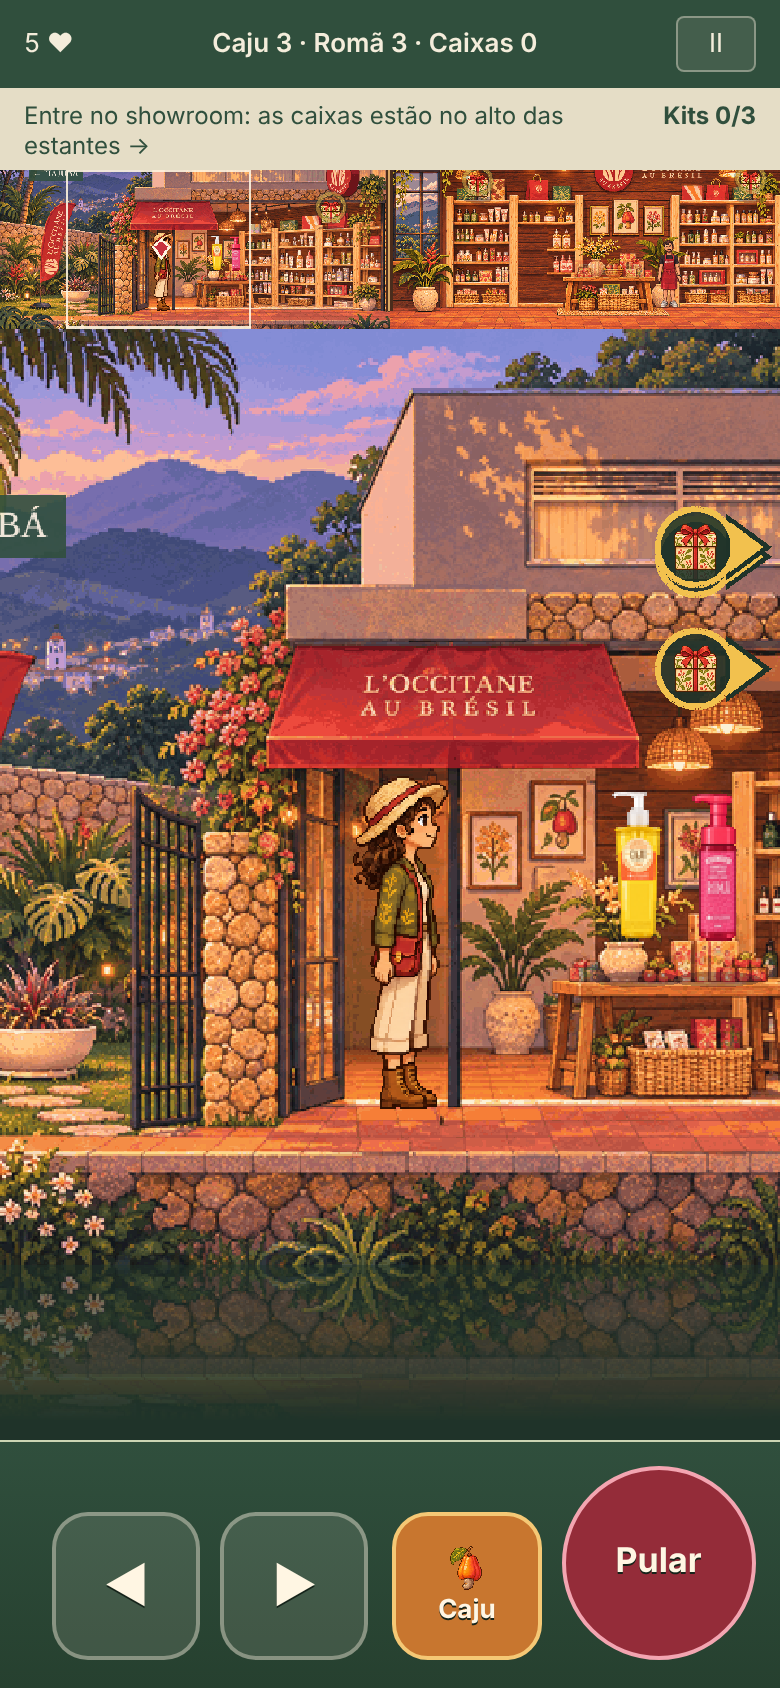
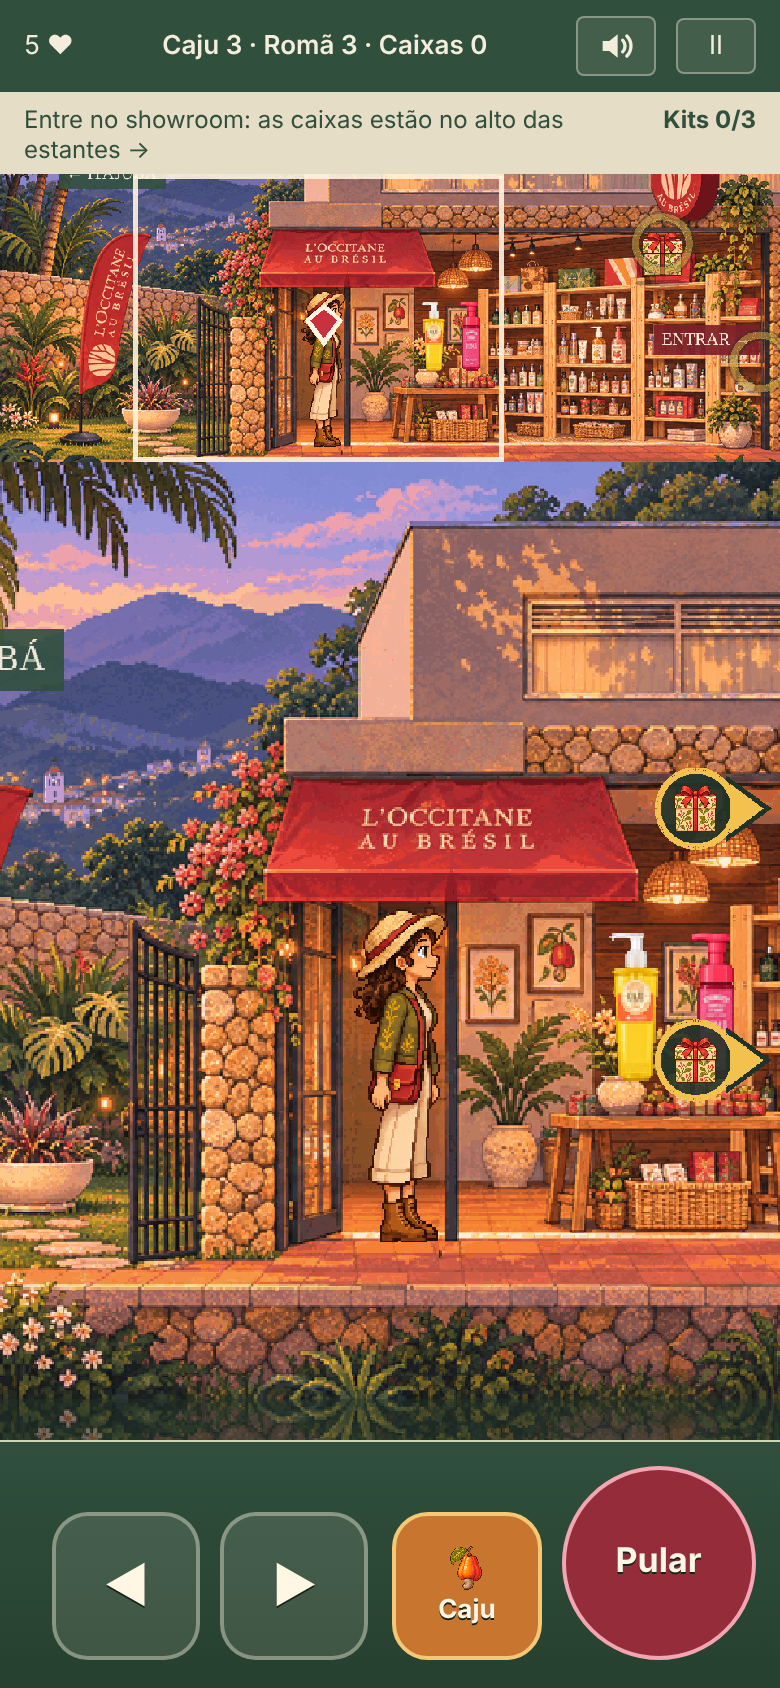
Showroom em duas telas: fachada e interior com transição entre elas
Claude-Session: https://claude.ai/code/session_01PQYRHC3q9ASyZ7S8rRpx5T

diff --git a/src/game/Aventura.js b/src/game/Aventura.js
@@ -27,6 +27,10 @@ const PORTAL = FACHADA - 46; // a bandeira do fim da rua: passou dela, a tela es
 // Volta ao showroom → cidade: andando para a esquerda no começo da fachada. As posições de chegada ficam longe
 // dos dois gatilhos (PORTAL + 8 na rua, VOLTA na fachada) para a passagem nunca disparar em seguida, em loop.
 const VOLTA = FACHADA + 12, CHEGADA_SHOWROOM = FACHADA + 34, CHEGADA_CIDADE = PORTAL - 40;
+// Fachada (jardim, porta e Pedro) e interior são duas telas separadas, com transição entre elas: andando para a
+// direita no fim da fachada entra no showroom; para a esquerda no começo do interior volta ao jardim.
+const PASSAGEM = 14, CHEGADA_INTERIOR = INTERIOR + 34, CHEGADA_JARDIM = INTERIOR - 34;
+const TRECHO = { fachada: FACHADA, interior: INTERIOR };
 const ESCALA = SHOWROOM.largura / 1672; // as artes do showroom foram desenhadas em 1672 px de largura
 const px = (base, x) => base + x * ESCALA, py = y => SHOWROOM.topo + y * ESCALA;
 const $ = id => document.getElementById(id);
@@ -104,7 +108,7 @@ export class Aventura extends Phaser.Scene {
     this.physics.world.setBounds(0, 0, FACHADA, ALTURA);
     const cam = this.cameras.main;
     cam.setZoom(this.scale.height / ALTURA_CIDADE); cam.setBounds(0, 0, FACHADA, ALTURA); cam.startFollow(this.jogador, true, .15, .15); cam.setDeadzone(64, 56);
-    this.sala = 'cidade';
+    this.sala = 'cidade'; this.trecho = 'fachada';
     this.guia = new GuiaShowroom(this); // mapa da loja e setas (celular em pé)
     this.entrada = new Entrada(this);
     this.events.once('shutdown', () => {
@@ -183,8 +187,6 @@ export class Aventura extends Phaser.Scene {
     const { topo } = SHOWROOM;
     this.add.image(FACHADA, topo, 'fachada').setOrigin(0).setScale(1 / 3);
     this.add.image(INTERIOR, topo, 'interior').setOrigin(0).setScale(1 / 3);
-    const g = this.add.graphics();
-    g.fillStyle(0x4a2c1c).fillRect(INTERIOR - 3, topo, 6, 150); g.fillStyle(0xd9a765).fillRect(INTERIOR - 2, topo, 2, 150);
     const piso = this.add.zone(FACHADA + SHOWROOM.largura, 255, SHOWROOM.largura * 2, 30);
     this.physics.add.existing(piso, true);
     this.pisoShowroom = piso;
@@ -216,6 +218,10 @@ export class Aventura extends Phaser.Scene {
     }
     this.placaCidade = this.add.text(FACHADA + 46, 128, '← ITAJUBÁ', { fontFamily: 'Georgia, serif', fontSize: '7px', color: '#fff4df', backgroundColor: '#304f3d', padding: { x: 3, y: 2 }, resolution: 4 })
       .setOrigin(.5).setDepth(6).setAlpha(.9); // no alto: não cobre a exploradora na chegada e aparece no celular em pé
+    // placas das passagens entre o jardim e o interior
+    const placa = { fontFamily: 'Georgia, serif', fontSize: '7px', color: '#fff4df', backgroundColor: '#7d2029', padding: { x: 3, y: 2 }, resolution: 4 };
+    this.add.text(INTERIOR - 30, 196, 'ENTRAR →', placa).setOrigin(.5).setDepth(6).setAlpha(.92);
+    this.add.text(INTERIOR + 28, 128, '← JARDIM', { ...placa, backgroundColor: '#304f3d' }).setOrigin(.5).setDepth(6).setAlpha(.9);
     this.saida = this.add.text(MUNDO - 22, 186, 'SAÍDA →', { fontFamily: 'Georgia, serif', fontSize: '9px', color: '#fff4df', backgroundColor: '#7d2029', padding: { x: 3, y: 2 }, resolution: 4 })
       .setOrigin(.5).setDepth(6).setAlpha(0);
   }
@@ -346,24 +352,34 @@ export class Aventura extends Phaser.Scene {
   // ---------- Passagem entre a rua e o showroom (nos dois sentidos) ----------
   // A tela escurece, troca a "sala" (limites de câmera e de física) e reabre. Missão, itens já pegos e capivaras
   // alimentadas ficam como estão: só a exploradora muda de lugar.
+  // Destinos: 'cidade', 'showroom' (chega à fachada vindo da rua), 'interior' e 'jardim' (as duas telas do showroom).
   trocarSala(destino) {
     this.estado = 'transicao';
     this.jogador.body.setVelocity(0, 0); this.physics.world.pause(); this.entrada.limpar(); this.tutorial?.esconder(); this.guia.esconder();
-    const showroom = destino === 'showroom';
-    $('transicao-titulo').textContent = showroom ? 'Showroom' : 'De volta a';
-    $('transicao-nome').textContent = showroom ? 'L’Occitane au Brésil' : 'Itajubá';
-    $('transicao-sub').textContent = showroom ? 'Itajubá' : 'Passeie à vontade';
+    const textos = {
+      showroom: ['Showroom', 'L’Occitane au Brésil', 'Itajubá'],
+      cidade: ['De volta a', 'Itajubá', 'Passeie à vontade'],
+      interior: ['Entrando no', 'Showroom', 'Os presentes estão lá dentro'],
+      jardim: ['De volta ao', 'Jardim', 'A rua de Itajubá fica à esquerda'],
+    }[destino];
+    $('transicao-titulo').textContent = textos[0]; $('transicao-nome').textContent = textos[1]; $('transicao-sub').textContent = textos[2];
     $('transicao').hidden = false; tocar('transicao');
-    const cam = this.cameras.main;
-    cam.fadeOut(380, 30, 16, 22);
+    const cam = this.cameras.main, dentroDaLoja = destino === 'interior' || destino === 'jardim';
+    cam.fadeOut(dentroDaLoja ? 300 : 380, 30, 16, 22);
     cam.once('camerafadeoutcomplete', () => {
-      this.sala = destino;
-      if (showroom) {
+      this.sala = destino === 'cidade' ? 'cidade' : 'showroom';
+      if (this.sala === 'showroom') {
         if (this.missao.fase === 'cidade') { this.missao.fase = 'fachada'; registrar('chegada_showroom'); }
-        this.physics.world.setBounds(FACHADA, 0, MUNDO - FACHADA, ALTURA);
         if (!this.solidos.contains(this.pisoShowroom)) this.solidos.add(this.pisoShowroom);
-        this.jogador.body.reset(CHEGADA_SHOWROOM, CHAO); this.jogador.olhandoDireita = true; this.checkpoint = CHEGADA_SHOWROOM;
-        this.enquadrar(); cam.centerOn(CHEGADA_SHOWROOM + 40, 180);
+        const [trecho, chegada, direita] = { showroom: ['fachada', CHEGADA_SHOWROOM, true], interior: ['interior', CHEGADA_INTERIOR, true], jardim: ['fachada', CHEGADA_JARDIM, false] }[destino];
+        this.trecho = trecho;
+        if (trecho === 'interior') {
+          if (!this.pedroConversou) this.pedroEntra();
+          if (this.missao.fase !== 'showroom') { this.missao.fase = 'showroom'; this.time.delayedCall(900, () => this.aviso('Caixas no alto das estantes!')); }
+        }
+        this.physics.world.setBounds(TRECHO[trecho], 0, SHOWROOM.largura, ALTURA);
+        this.jogador.body.reset(chegada, CHAO); this.jogador.olhandoDireita = direita; this.checkpoint = chegada;
+        this.enquadrar(); cam.centerOn(chegada + (direita ? 40 : -40), 180);
       } else {
         this.physics.world.setBounds(0, 0, FACHADA, ALTURA);
         this.jogador.body.reset(CHEGADA_CIDADE, CHAO); this.jogador.olhandoDireita = false; this.checkpoint = CHEGADA_CIDADE;
@@ -371,13 +387,15 @@ export class Aventura extends Phaser.Scene {
         cam.centerOn(CHEGADA_CIDADE - 40, ALTURA / 2);
       }
       this.ultimoHUD = ''; this.atualizarHUD();
-      this.time.delayedCall(650, () => {
+      this.time.delayedCall(dentroDaLoja ? 450 : 650, () => {
         $('transicao').hidden = true; cam.fadeIn(420, 30, 16, 22);
         this.physics.world.resume(); this.estado = 'jogo'; this.entrada.ignorarAteSoltar();
       });
     });
   }
   entrarNoShowroom() { this.trocarSala('showroom'); }
+  entrarNoInterior() { this.trocarSala('interior'); }
+  voltarAoJardim() { this.trocarSala('jardim'); }
   voltarParaCidade() { this.trocarSala('cidade'); }
 
   // ---------- Conversa com Pedro ----------
@@ -492,9 +510,10 @@ export class Aventura extends Phaser.Scene {
   // mostrar ao menos 150 unidades de largura (antes ~110); o que sobra embaixo é um reflexo do piso.
   enquadrar() {
     const cam = this.cameras.main, showroom = this.sala === 'showroom';
-    const zoom = showroom ? this.guia.layout(true) : (this.guia.layout(false), this.scale.height / ALTURA_CIDADE);
+    const x0 = TRECHO[this.trecho] ?? FACHADA;
+    const zoom = showroom ? this.guia.layout(true, x0) : (this.guia.layout(false), this.scale.height / ALTURA_CIDADE);
     if (Math.abs(cam.zoom - zoom) > .001) cam.setZoom(zoom);
-    const limites = showroom ? [FACHADA, SHOWROOM.topo, MUNDO - FACHADA, Math.max(SHOWROOM.altura, cam.height / zoom)] : [0, 0, FACHADA, ALTURA];
+    const limites = showroom ? [x0, SHOWROOM.topo, SHOWROOM.largura, Math.max(SHOWROOM.altura, cam.height / zoom)] : [0, 0, FACHADA, ALTURA];
     const b = cam.getBounds();
     if (b.x !== limites[0] || Math.abs(b.height - limites[3]) > .01 || b.width !== limites[2]) cam.setBounds(...limites);
     return zoom;
@@ -502,7 +521,7 @@ export class Aventura extends Phaser.Scene {
   // Para onde ir no showroom: Pedro, caixas, produtos de reserva, o próximo lugar livre da bancada e a saída.
   alvosShowroom() {
     if (!this.pedroConversou) return [{ x: this.pedroX, y: py(792) - 58, icone: 'pedro-npc', frame: 'parado-0', escala: .075 }];
-    if (this.missao.kits >= META_KITS) return [{ x: MUNDO - 22, y: 200, icone: 'sacola', escala: .22 }];
+    if (this.missao.kits >= META_KITS) return this.alvosNestaTela([{ x: MUNDO - 22, y: 200, icone: 'sacola', escala: .22 }]);
     const alvos = [];
     const falta = faltaParaKit(this.missao);
     for (const item of this.itens.getChildren()) {
@@ -517,7 +536,14 @@ export class Aventura extends Phaser.Scene {
       // faltam frutas e não há reserva no showroom: o caminho é a cidade
       if (!alvos.some(a => a.icone === 'caju' || a.icone === 'roma')) alvos.push({ x: FACHADA + 46, y: 128, icone: falta.includes('caju') ? 'caju' : 'roma', escala: .26 });
     }
-    return alvos;
+    return this.alvosNestaTela(alvos);
+  }
+  // O que fica na outra tela do showroom vira um alvo na passagem (uma seta só, com o ícone do primeiro).
+  alvosNestaTela(alvos) {
+    const interior = this.trecho === 'interior', nesta = [], passagem = [];
+    for (const a of alvos) (a.x >= INTERIOR) === interior ? nesta.push(a) : passagem.push(a);
+    if (passagem.length) nesta.push({ ...passagem[0], x: interior ? INTERIOR + 8 : INTERIOR - 8, y: 205 });
+    return nesta;
   }
   // Zoom pela altura da tela (que muda com o celular) e câmera um pouco à frente de quem anda.
   atualizarCamera() {
@@ -563,13 +589,14 @@ export class Aventura extends Phaser.Scene {
       if (x > this.checkpoint + MODO_FACIL.checkpointDistancia) this.checkpoint = x;
     } else {
       // andando para a esquerda no começo da fachada, volta para a rua
-      if (x < VOLTA && this.entrada.esquerda) { this.voltarParaCidade(); return; }
+      if (this.trecho !== 'interior' && x < VOLTA && this.entrada.esquerda) { this.voltarParaCidade(); return; }
+      if (this.trecho === 'fachada' && x > INTERIOR - PASSAGEM && this.entrada.direita) { this.entrarNoInterior(); return; }
+      if (this.trecho === 'interior' && x < INTERIOR + PASSAGEM && this.entrada.esquerda) { this.voltarAoJardim(); return; }
       const perto = !this.pedroConversou && Math.abs(x - this.pedroX) < 45;
       if (perto !== this.pedroPerto) { this.pedroPerto = perto; this.pedro.play(perto ? 'pedro-aceno' : 'pedro-parado'); }
       // a primeira passagem pela porta abre a conversa sozinha: é ela que explica as caixas de presente
       if (perto && !this.pedroConversou && Math.abs(x - this.pedroX) < 20) { this.abrirDialogo(); return; }
       if (x > this.pedroX + 30 && !this.pedroConversou) this.pedroEntra();
-      if (x > INTERIOR && this.missao.fase !== 'showroom') { this.missao.fase = 'showroom'; this.aviso('Caixas no alto das estantes!'); }
       if (this.missao.fase === 'showroom') this.verificarBancada();
       this.guia.atualizar(this.alvosShowroom(), this.jogador, agora);
     }
@@ -577,7 +604,7 @@ export class Aventura extends Phaser.Scene {
     $('interagir').hidden = !contexto;
     if (contexto && $('interagir').textContent !== contexto.texto) $('interagir').textContent = contexto.texto;
     if (this.entrada.interagirApertou || this.pedidoInteracao) { this.pedidoInteracao = false; this.interagir(contexto); }
-    const local = this.sala === 'cidade' ? 'Pelas ruas de Itajubá' : x > INTERIOR ? 'Showroom · monte a vitrine' : 'Showroom L’Occitane';
+    const local = this.sala === 'cidade' ? 'Pelas ruas de Itajubá' : this.trecho === 'interior' ? 'Showroom · monte a vitrine' : 'Showroom L’Occitane';
     if ($('local').textContent !== local) $('local').textContent = local;
     this.atualizarHUD();
     // A partida só termina saindo à direita com os três kits; não há fim por tempo.

diff --git a/src/game/guiaShowroom.js b/src/game/guiaShowroom.js
@@ -2,10 +2,10 @@ import { SHOWROOM, ALTURA_SHOWROOM } from './config.js';
 
 // Showroom no celular em pé: com o zoom pela altura sobravam ~110 unidades de largura.
 // Aqui ficam o enquadramento do celular em pé, o "mapa da loja" no alto (uma segunda câmera que mostra
-// o showroom inteiro com as próprias artes) e as setas que apontam para o próximo objetivo.
-export const MAPA = { y1: 125, y2: 255 }; // faixa vertical do showroom que aparece no mapa (estantes e chão)
+// a tela atual do showroom, fachada ou interior, com as próprias artes) e as setas que apontam para o próximo objetivo.
+export const MAPA = { y1: 128, y2: 246 }; // faixa vertical do showroom que aparece no mapa (estantes e chão)
 export const LARGURA_MIN_SHOWROOM = 150; // largura mínima visível (unidades) no celular em pé
-const LARGURA_TOTAL = SHOWROOM.largura * 2;
+const LARGURA_TELA = SHOWROOM.largura, LARGURA_TOTAL = SHOWROOM.largura * 2;
 const CORES = { alvo: 0xf2c14e, jogadora: 0xc8323f, moldura: 0xfff4df, escuro: 0x1f3329 };
 
 // Celular em pé: a tela do jogo é bem mais alta que larga.
@@ -14,7 +14,7 @@ export const emPe = (largura, altura) => altura > largura * 1.15;
 // Enquadramento por tamanho de tela, sem Phaser (testável): altura do mapa, zoom e área visível do jogo.
 export function enquadramento(largura, altura) {
   if (!emPe(largura, altura)) return { mapa: 0, zoom: altura / ALTURA_SHOWROOM };
-  const mapa = Math.round(largura * (MAPA.y2 - MAPA.y1) / LARGURA_TOTAL);
+  const mapa = Math.round(largura * (MAPA.y2 - MAPA.y1) / LARGURA_TELA);
   const zoom = Math.min((altura - mapa) / ALTURA_SHOWROOM, largura / LARGURA_MIN_SHOWROOM);
   return { mapa, zoom };
 }
@@ -68,16 +68,16 @@ export class GuiaShowroom {
   }
 
   // Liga o mapa e ajusta a câmera principal ao tamanho da tela; devolve o zoom usado.
-  layout(ativo) {
+  layout(ativo, x0 = SHOWROOM.x) {
     const s = this.scene, cam = s.cameras.main, w = s.scale.width, h = s.scale.height;
     const { mapa, zoom } = ativo ? enquadramento(w, h) : { mapa: 0, zoom: 0 };
     const mostrar = ativo && mapa > 0;
-    if (this.alturaMapa !== (mostrar ? mapa : 0) || cam.height !== h - (mostrar ? mapa : 0) || cam.width !== w) {
-      this.alturaMapa = mostrar ? mapa : 0;
+    if (this.alturaMapa !== (mostrar ? mapa : 0) || cam.height !== h - (mostrar ? mapa : 0) || cam.width !== w || this.x0 !== x0) {
+      this.alturaMapa = mostrar ? mapa : 0; this.x0 = x0;
       cam.setViewport(0, this.alturaMapa, w, h - this.alturaMapa);
       if (mostrar) {
-        this.mapa.setViewport(0, 0, w, mapa).setZoom(w / LARGURA_TOTAL);
-        this.mapa.centerOn(SHOWROOM.x + LARGURA_TOTAL / 2, (MAPA.y1 + MAPA.y2) / 2);
+        this.mapa.setViewport(0, 0, w, mapa).setZoom(w / LARGURA_TELA);
+        this.mapa.centerOn(x0 + LARGURA_TELA / 2, (MAPA.y1 + MAPA.y2) / 2);
       }
     }
     this.mapa.setVisible(mostrar);

diff --git a/tests/exploracao.test.js b/tests/exploracao.test.js
@@ -83,3 +83,25 @@ test('voltar à cidade e retornar ao showroom preserva missão, itens e capivara
   assert.equal(mundo.pausado, mundo.retomado, 'toda transição retoma a física');
   assert.equal(s.fim, false);
 });
+
+test('fachada e interior são duas telas, com transição nos dois sentidos e sem loop', () => {
+  const { s, elements, mundo, cam } = cena();
+  s.aviso = () => {}; s.pedroEntra = () => { s.pedroConversou = true; };
+  s.jogador.x = SHOWROOM.x - 30; s.update(0, 16);
+  assert.equal(s.trecho, 'fachada'); assert.deepEqual(mundo.bounds, [SHOWROOM.x, 0, SHOWROOM.largura, ALTURA]);
+  assert.equal(cam.bounds[0], SHOWROOM.x); assert.equal(cam.bounds[2], SHOWROOM.largura, 'a câmera não mostra o interior junto da fachada');
+  const interior = SHOWROOM.x + SHOWROOM.largura;
+  // parado no fim da fachada não entra; andando para a direita entra
+  s.jogador.x = interior - 10; s.update(0, 16); assert.equal(s.trecho, 'fachada');
+  s.entrada.direita = true; s.update(0, 16);
+  assert.equal(s.trecho, 'interior'); assert.equal(elements['transicao-nome'].textContent, 'Showroom');
+  assert.equal(s.missao.fase, 'showroom'); assert.deepEqual(mundo.bounds, [interior, 0, SHOWROOM.largura, ALTURA]);
+  assert.equal(cam.bounds[0], interior); assert.ok(s.jogador.x > interior + 14, 'chega longe da passagem');
+  for (let i = 0; i < 5; i++) s.update(0, 16); assert.equal(s.trecho, 'interior', 'segurar a direita não volta');
+  // de volta ao jardim pela esquerda do interior; não volta à rua de imediato
+  s.entrada.direita = false; s.entrada.esquerda = true; s.jogador.x = interior + 8; s.update(0, 16);
+  assert.equal(s.trecho, 'fachada'); assert.equal(s.sala, 'showroom'); assert.equal(elements['transicao-nome'].textContent, 'Jardim');
+  assert.ok(s.jogador.x < interior - 14); assert.equal(s.missao.fase, 'showroom', 'a fase não regride');
+  for (let i = 0; i < 5; i++) s.update(0, 16); assert.equal(s.sala, 'showroom');
+  assert.equal(mundo.pausado, mundo.retomado);
+});

diff --git a/tests/guia-showroom.test.js b/tests/guia-showroom.test.js
@@ -7,7 +7,7 @@ test('celular em pé: mapa da loja no alto e ao menos 150 unidades de largura no
   for (const altura of [1562, 1599, 1631, 1700]) { // 390x844, 412x915 e afins (canvas de 960 de largura)
     assert.ok(emPe(960, altura));
     const { mapa, zoom } = enquadramento(960, altura);
-    assert.equal(mapa, Math.round(960 * (MAPA.y2 - MAPA.y1) / (SHOWROOM.largura * 2)));
+    assert.equal(mapa, Math.round(960 * (MAPA.y2 - MAPA.y1) / SHOWROOM.largura));
     assert.ok(960 / zoom >= LARGURA_MIN_SHOWROOM - 1e-9, 'mostra pelo menos 150 de largura (antes ~110)');
     assert.ok((altura - mapa) / zoom >= ALTURA_SHOWROOM - 1e-9, 'a altura inteira do showroom continua visível');
   }

diff --git a/docs/RODADA-AJUSTES.md b/docs/RODADA-AJUSTES.md
@@ -160,3 +160,17 @@ Pedido: cair em cima da capivara deve fazê-la dormir, com quique e "zzz"; dar m
 - Não refeita nesta rodada: a partida completa até a vitrine. Nada testado em aparelho real.
 
 Capturas: `docs/capturas/v4-*.png`.
+
+## Fachada e interior em telas separadas (mesmo dia, pedido do Pedro)
+
+Pedido: "o showroom tem duas partes, a da frente com o Pedro e a de dentro, que tem até o teto maior; do jeito que está parece um showroom enorme com o teto aumentando. Preciso de uma transição entre telas, não de uma junção."
+
+- **Duas telas.** A câmera, a física e o mapa da loja passam a mostrar uma tela por vez: a fachada (jardim, porta, Pedro) ou o interior. Nunca as duas lado a lado. O batente desenhado entre as duas artes saiu.
+- **Transição.** Andando para a direita no fim da fachada (placa "ENTRAR →"), a tela escurece com "Entrando no · Showroom" e reabre no interior. Andando para a esquerda no começo do interior (placa "← JARDIM"), volta à fachada com "De volta ao · Jardim". Mais curta que a da rua (300 + 450 ms). Os pontos de chegada ficam 34 unidades para dentro, longe dos gatilhos, então a passagem não se repete sozinha (teste novo em `tests/exploracao.test.js`).
+- Entrar no interior conta como chegar à bancada (fase `showroom`) e, se a pessoa passou direto, o Pedro já espera lá dentro. Missão, itens e kits não mudam ao ir e voltar.
+- **Setas:** o que está na outra tela vira uma seta na passagem, com o ícone do alvo (ex.: no interior, falta a caixa da fachada → seta para "← JARDIM").
+- **Mapa da loja** mostra só a tela atual (faixa y 128–246), maior e mais legível.
+
+Testado no Chromium em 390×844: percurso completo do showroom com teclado, fachada → transição → interior → três kits → final "Vitrine pronta!", sem erros nem 4xx/5xx; `npm test` 47 de 47 e `npm run build`. Capturas: `v5-depois-fachada-caixa.png` (fachada sozinha com "ENTRAR →"), `v5-depois-entrando.png` e `v5-depois-interior-tela-propria.png` (interior com "← JARDIM" e mapa só do interior).
+
+**Próximo passo:** o Pedro está subindo uma fachada nova, fechada, com a porta no centro e sem as estantes à mostra. Quando ela chegar, a caixa de presente que hoje fica no alto da estante da fachada precisa ir para o interior, e a passagem pode ser pela porta.
